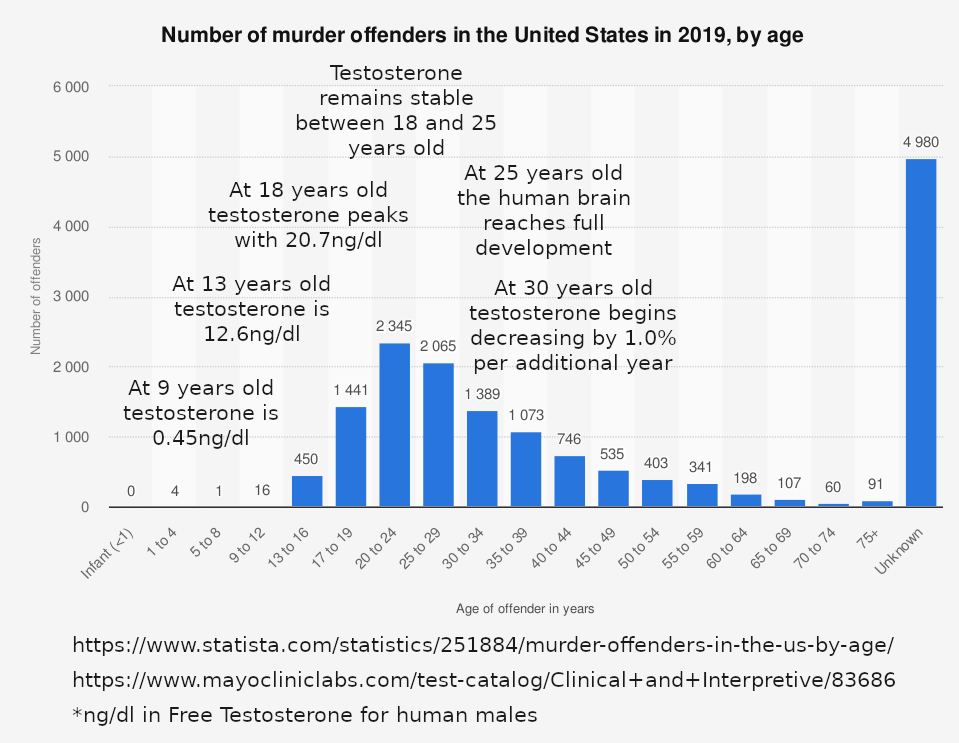
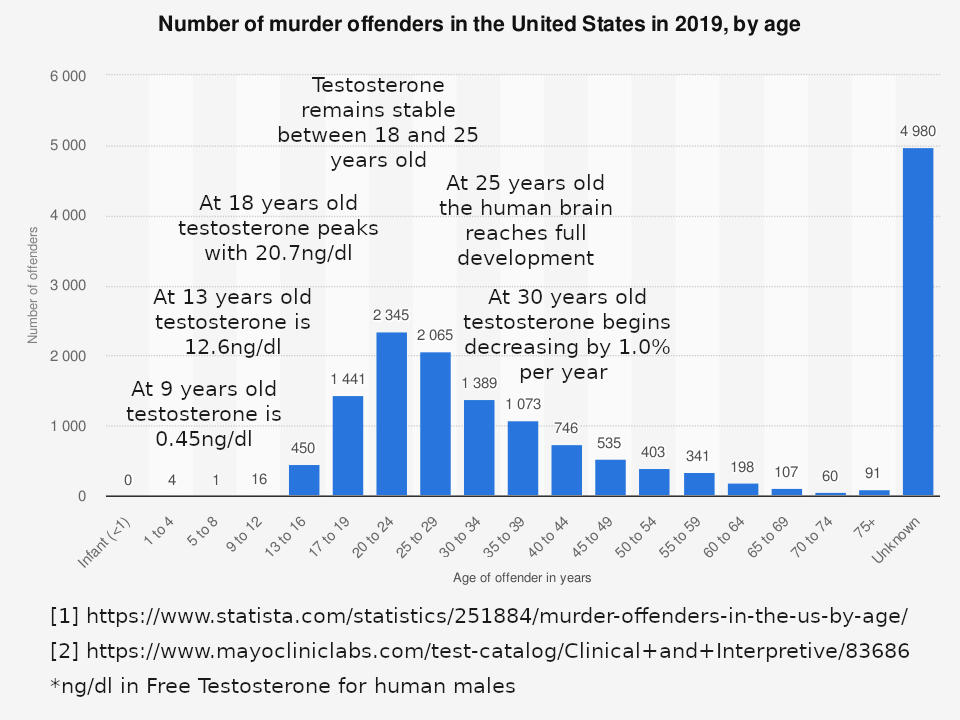
1

diff --git a/myblog/testosterone.html b/myblog/testosterone.html
@@ -7,8 +7,9 @@
 </head>
 <body>
 <br>
-<img src="testosterone.webp" max-width="100%" max-height="100%"> 
-<p>All of humanity's problems are caused by hormones. Hormones make us feel very emotional, while emotional we behave irrationally. The most dangerous hormone is testosterone. Testosterone may effect baldness, pubic hair, and vocal pitch in some humans. In others, testosterone may effect psychopathy which means very low empathy. Scientists could predict criminality, by seeing the effect testosterone made to the brain's structure. A testosterone sensitive brain develops uniquely. Higher levels of testosterone does not cause psychopathy. For example, higher levels of testosterone does not cause baldness, rather baldness depends on the hair follicle's sensitivity. Humans with very low testosterone can still go bald, because baldness depends on the hair follicle's testosterone sensitivity. So a human with very low testosterone can still be a psychopath, because psychopathy depends on the brain's testosterone sensitivity during puberty, some brains are more sensitive than others.</p>
+<img src="testosterone.webp" max-width="100%" max-height="100%">
+<p><a href="https://www.statista.com/statistics/251884/murder-offenders-in-the-us-by-age/">[1]</a><a href="https://www.mayocliniclabs.com/test-catalog/Clinical+and+Interpretive/83686">[2]</a></p>
+<p>All of humanity's problems are caused by hormones. Hormones make us emotional, while emotional we behave irrationally. The most dangerous hormone is testosterone. Testosterone may effect baldness, pubic hair, and vocal pitch in some humans. In others, testosterone effects psychopathy which means very low empathy. Scientists could predict criminality, by observing the effect testosterone made to the brain's structure. A testosterone sensitive brain develops uniquely. Higher levels of testosterone does not cause psychopathy. For example, higher levels of testosterone does not cause baldness, humans with very low testosterone can still go bald, because baldness depends on the hair follicle's testosterone sensitivity. So a human with very low testosterone can still be a psychopath, because psychopathy depends on the brain's testosterone sensitivity during brain development, some brains are more sensitive than others.</p>
 
 
 <p>Supposedly, spearmint tea lowers both Total and Free testosterone by 23% and 29% for human females <a href="https://doi.org/10.1002/ptr.2900">[1]</a>, it probably lowers testosterone for human males too.</p>  
